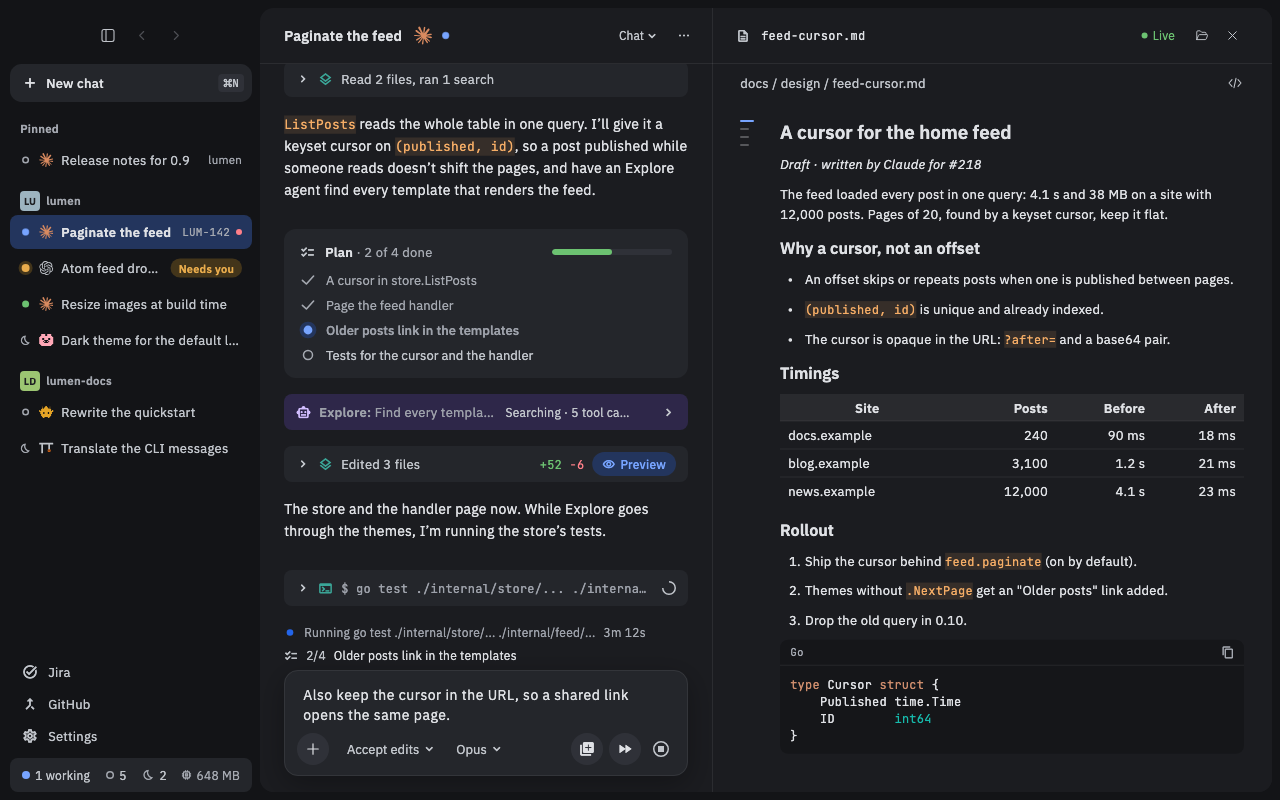
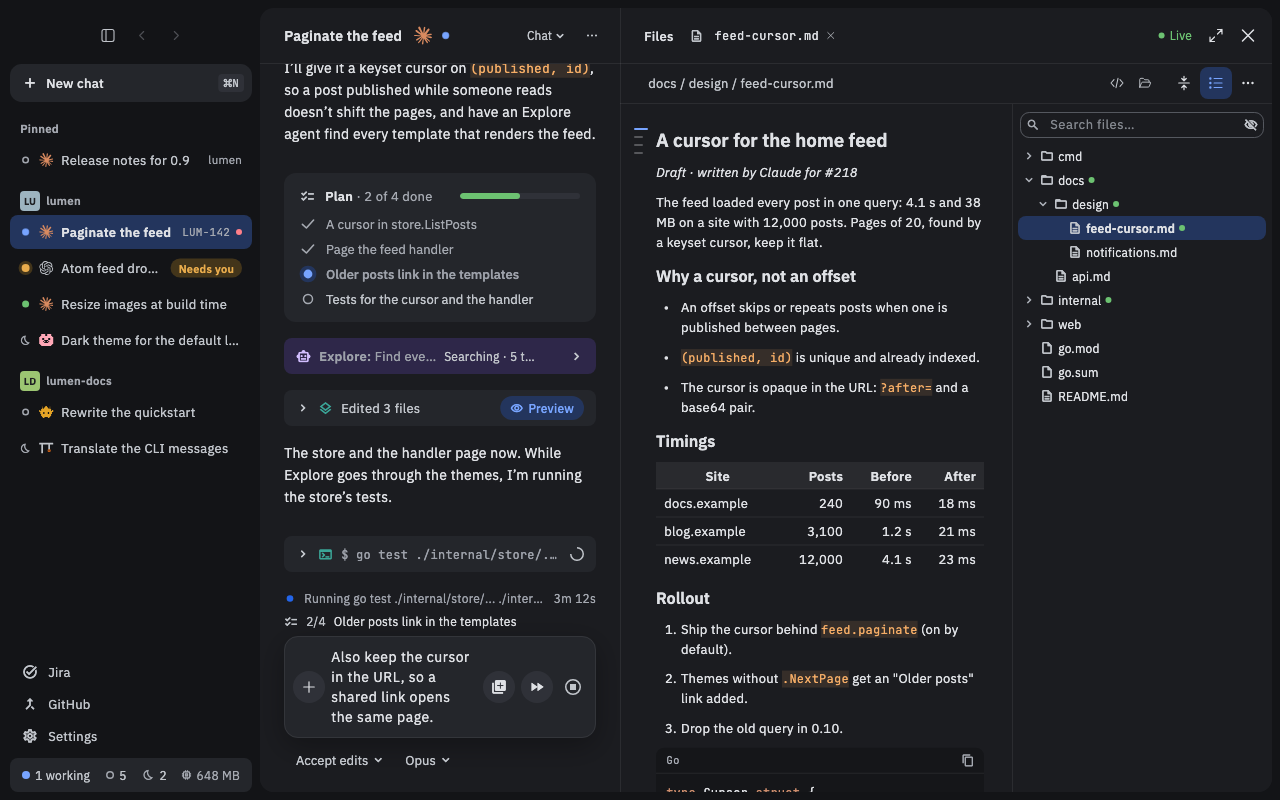
The README's preview screenshot shows the Files pane
docs/images/preview.png still showed the old preview pane, beside wiki
text that now describes the Files pane. The screenshot's fake daemon
now lists a made-up tree, the note revealed in it, and the picture is
taken again: Files' two rows, the note on the left, the tree on the
right. The other screenshots show no side pane and are left as they
were.

diff --git a/app/test/screenshots/readme_shots.dart b/app/test/screenshots/readme_shots.dart
@@ -14,6 +14,7 @@ import 'package:nushi/clock.dart';
 import 'package:nushi/collapsible.dart';
 import 'package:nushi/context_cache.dart';
 import 'package:nushi/daemon.dart';
+import 'package:nushi/files_pane.dart' show showInFiles;
 import 'package:nushi/gen/nushi/v1/nushi.pb.dart';
 import 'package:nushi/main.dart';
 import 'package:nushi/phone/phone.dart';
@@ -138,6 +139,14 @@ Object? _demo(Object input) => switch (input) {
   _ => null,
 };
 
+/// The demo's worktree as its Files pane's tree lists it, by folder, a
+/// folder's name ending in a slash.
+const _folder = {
+  '': ['cmd/', 'docs/', 'internal/', 'web/', 'go.mod', 'go.sum', 'README.md'],
+  'docs': ['design/', 'api.md'],
+  'docs/design': ['feed-cursor.md', 'notifications.md'],
+};
+
 /// The Mac app at [size] in [brightness], on the demo's chats.
 Future<(Daemon, FakeDaemon)> _app(
   WidgetTester tester,
@@ -181,6 +190,21 @@ Future<(Daemon, FakeDaemon)> _app(
         ),
         AttachTerminalRequest() => AttachTerminalResponse(
           data: utf8.encode(demoTerminal),
+        ),
+        WatchChatFolderRequest(:final path) => WatchChatFolderResponse(
+          folders: [
+            FolderListing(
+              path: path,
+              entries: [
+                for (final name in _folder[path] ?? const <String>[])
+                  FolderEntry(
+                    name: name.replaceAll('/', ''),
+                    kind: name.endsWith('/') ? 'folder' : 'file',
+                    size: Int64(1200),
+                  ),
+              ],
+            ),
+          ],
         ),
         _ => null,
       };
@@ -282,7 +306,8 @@ void main() {
 
   testWidgets('preview: the design note the agent wrote', (tester) async {
     final (d, _) = await _app(tester, _small, select: 'feed', details: false);
-    d.chats['feed']!.openInFiles('docs/design/feed-cursor.md');
+    final feed = d.chats['feed']!..openInFiles('docs/design/feed-cursor.md');
+    showInFiles(feed, 'docs/design/feed-cursor.md');
     await _pump(tester, 10);
     await _shoot(tester, 'preview');
     d.dispose();
